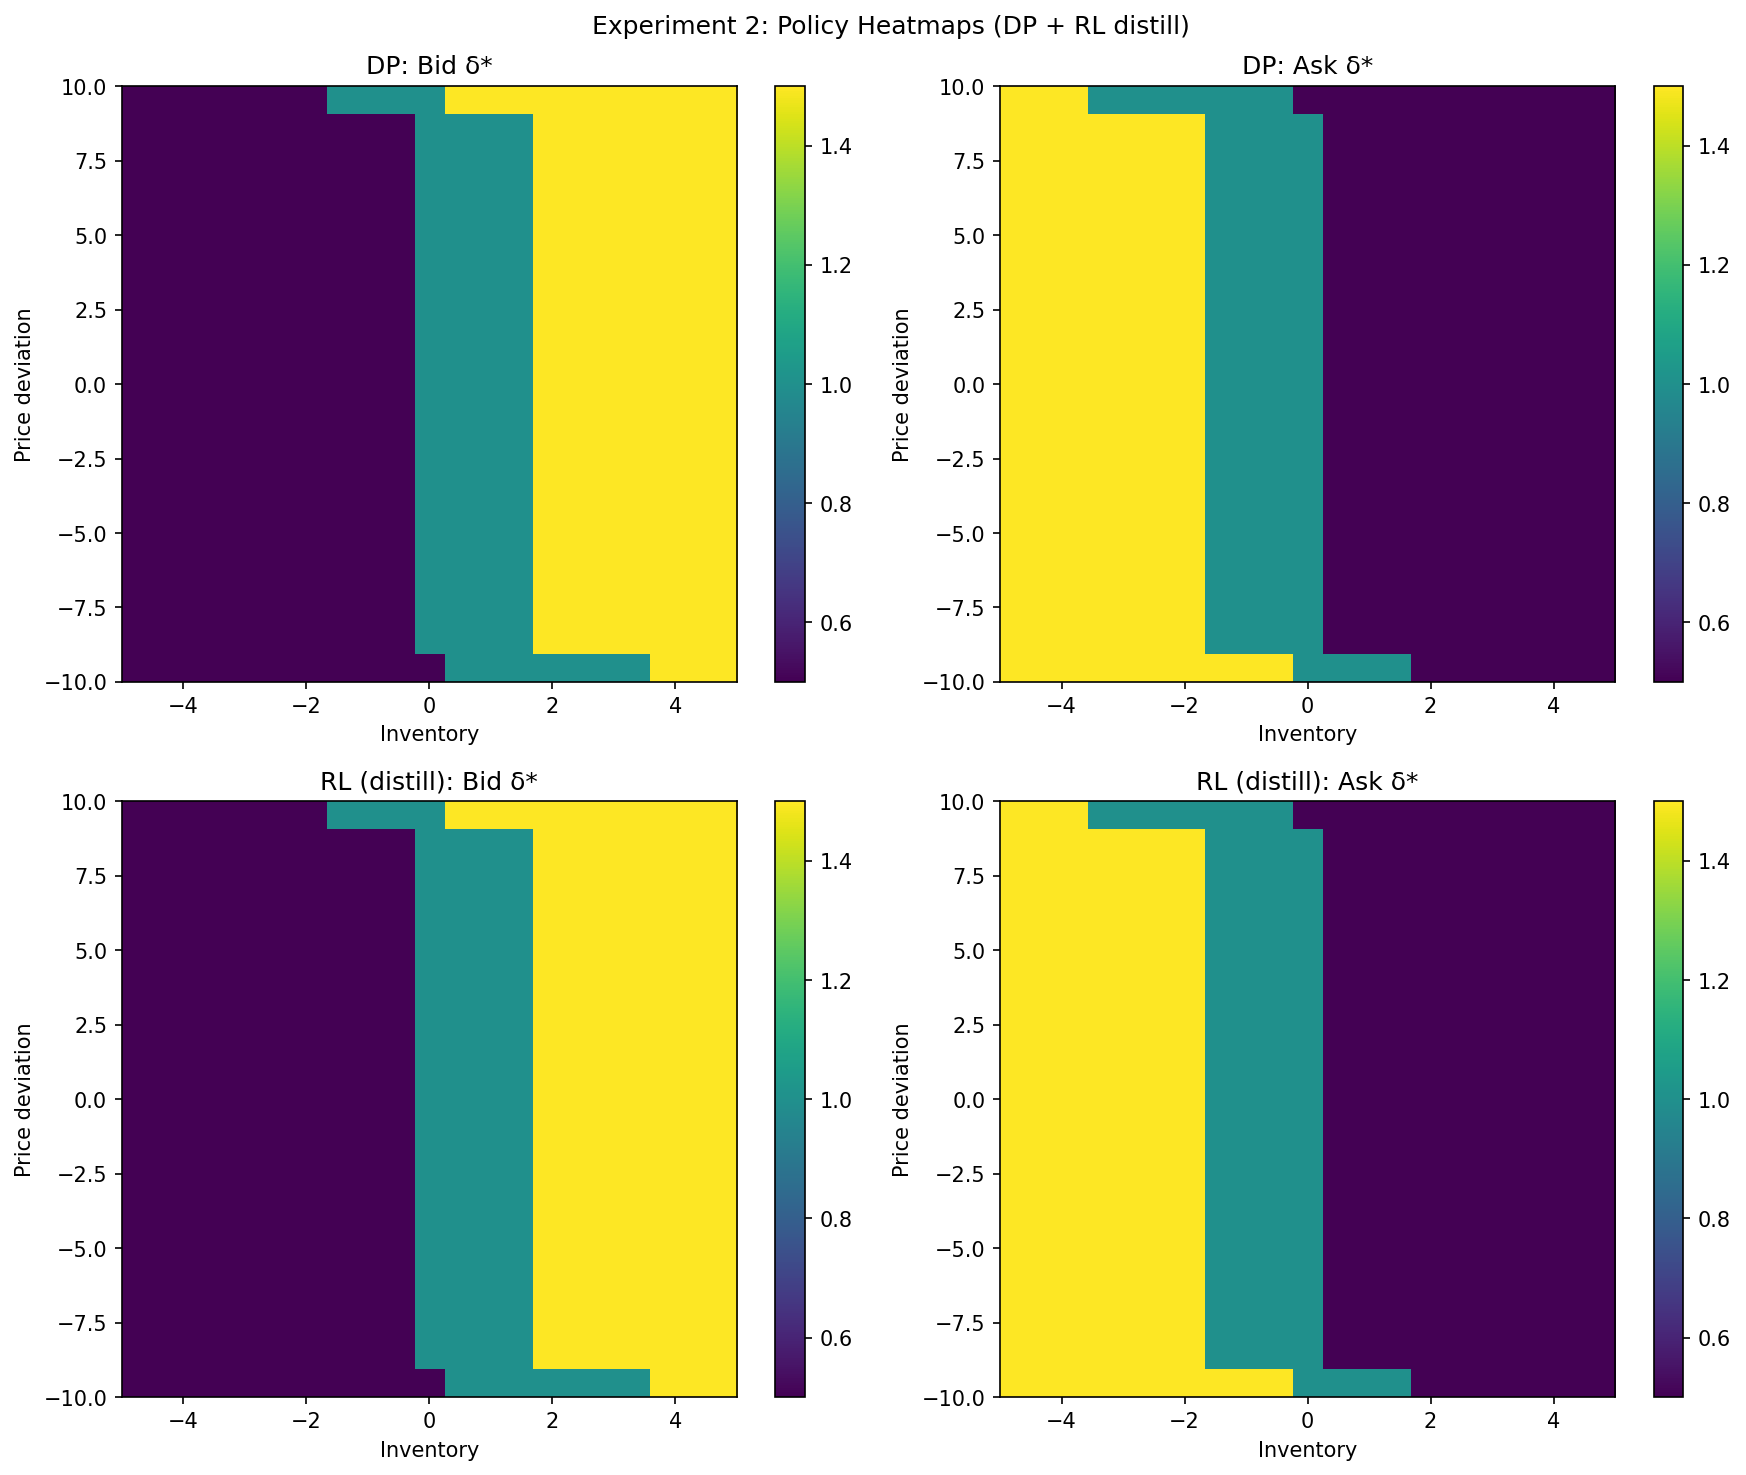
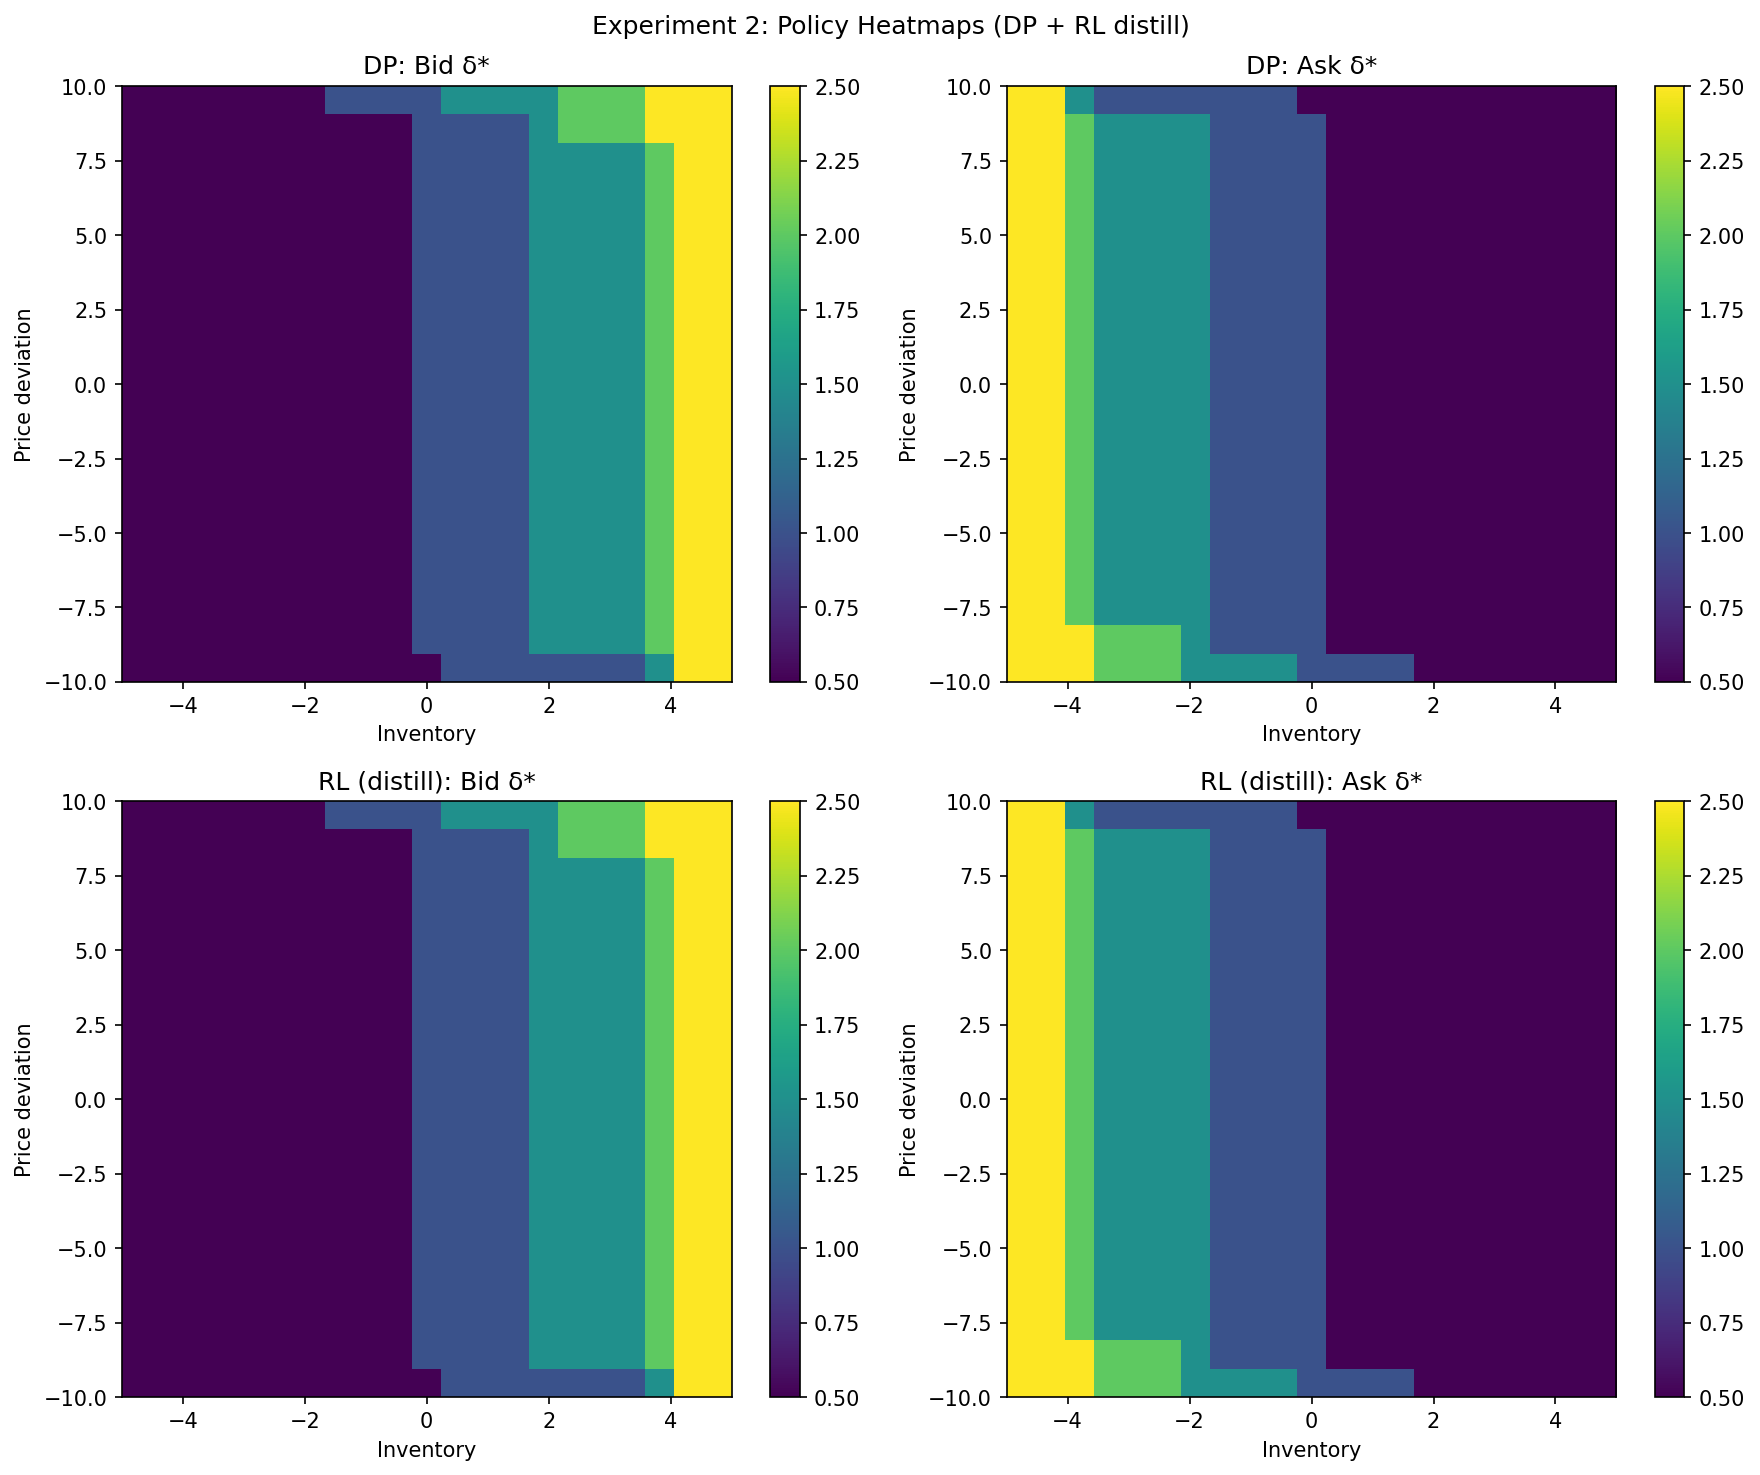
push

diff --git a/project/experiment2_realworld.py b/project/experiment2_realworld.py
@@ -286,6 +286,74 @@ def main():
     plt.savefig("results/exp2_realworld_comparison.png", dpi=150, bbox_inches="tight")
     print("→ saved results/exp2_realworld_comparison.png")
 
+    # ── Policy heatmaps (DP + RL continuous at mid vol) ──────────────────
+    if price_grid is not None and vol_grid is not None:
+        fig_hm, axes_hm = plt.subplots(2, 2, figsize=(12, 10))
+        inv_norm = np.linspace(-1, 1, 21)
+        price_norm = np.linspace(-1, 1, 21)
+
+        def build_heatmap_realworld(agent, env):
+            bid_map = np.zeros((len(price_norm), len(inv_norm)))
+            ask_map = np.zeros_like(bid_map)
+            vol_mid = float(vol_grid[mid_v])
+            for i, pn in enumerate(price_norm):
+                price_dev = pn * PRICE_HALF_RANGE
+                for j, ni in enumerate(inv_norm):
+                    inv = int(np.clip(np.round(ni * params.max_inventory + params.max_inventory), 0, params.n_inventory_states - 1))
+                    inv = params.index_to_inventory(inv)
+                    obs = env.obs_for_state(inv, price_dev=price_dev, vol=vol_mid, order_flow=0.0)
+                    mask = DQNAgent.boundary_mask(inv, params)
+                    a = agent.select_action(obs, valid_mask=mask)
+                    db, da = params.action_to_spreads(a)
+                    bid_map[i, j] = db
+                    ask_map[i, j] = da
+            return bid_map, ask_map
+
+        rl_bid_map, rl_ask_map = build_heatmap_realworld(agent, eval_env)
+        extent = [inventories[0], inventories[-1], -PRICE_HALF_RANGE, PRICE_HALF_RANGE]
+        vmin, vmax = min(SPREAD_OPTIONS), max(SPREAD_OPTIONS)
+
+        if dp_result is not None:
+            _V, policy_dp, _pg, _vg = dp_result
+            dp_bid_map = np.zeros((len(price_norm), len(inv_norm)))
+            dp_ask_map = np.zeros_like(dp_bid_map)
+            for i, pn in enumerate(price_norm):
+                price_dev = pn * PRICE_HALF_RANGE
+                sp = int(np.clip(np.argmin(np.abs(_pg - price_dev)), 0, len(_pg) - 1))
+                for j, ni in enumerate(inv_norm):
+                    si = int(np.clip(np.round(ni * params.max_inventory + params.max_inventory), 0, params.n_inventory_states - 1))
+                    db, da = params.action_to_spreads(policy_dp[si, sp, mid_v])
+                    dp_bid_map[i, j] = db
+                    dp_ask_map[i, j] = da
+            for ax, data, title in [
+                (axes_hm[0, 0], dp_bid_map, "DP: Bid δ*"),
+                (axes_hm[0, 1], rl_bid_map, "RL (continuous): Bid δ*"),
+                (axes_hm[1, 0], dp_ask_map, "DP: Ask δ*"),
+                (axes_hm[1, 1], rl_ask_map, "RL (continuous): Ask δ*"),
+            ]:
+                im = ax.imshow(data, aspect="auto", origin="lower", extent=extent, cmap="viridis", vmin=vmin, vmax=vmax)
+                ax.set_xlabel("Inventory")
+                ax.set_ylabel("Price deviation")
+                ax.set_title(title)
+                plt.colorbar(im, ax=ax)
+        else:
+            for ax, data, title in [
+                (axes_hm[0, 0], rl_bid_map, "RL (continuous): Bid δ*"),
+                (axes_hm[0, 1], rl_ask_map, "RL (continuous): Ask δ*"),
+            ]:
+                im = ax.imshow(data, aspect="auto", origin="lower", extent=extent, cmap="viridis", vmin=vmin, vmax=vmax)
+                ax.set_xlabel("Inventory")
+                ax.set_ylabel("Price deviation")
+                ax.set_title(title)
+                plt.colorbar(im, ax=ax)
+            axes_hm[1, 0].set_visible(False)
+            axes_hm[1, 1].set_visible(False)
+
+        fig_hm.suptitle("Experiment 2 Real-World: Policy Heatmaps at mid vol")
+        plt.tight_layout()
+        plt.savefig("results/exp2_realworld_policy_heatmap.png", dpi=150, bbox_inches="tight")
+        print("→ saved results/exp2_realworld_policy_heatmap.png")
+
     fig2, ax2 = plt.subplots(1, 1, figsize=(10, 5))
     if methods:
         bars2 = ax2.bar(methods, times_s, color=colors[: len(methods)], edgecolor="k")

diff --git a/project/experiment3.py b/project/experiment3.py
@@ -215,6 +215,68 @@ def main():
     plt.tight_layout()
     plt.savefig("results/exp3_comparison.png", dpi=150, bbox_inches="tight")
     print("→ saved results/exp3_comparison.png")
+
+    # ── Policy heatmaps at mid vol (DP, regular, discrete, distill) ─────
+    fig2, axes2 = plt.subplots(2, 4, figsize=(20, 10))
+    mid_v = N_VOL_BINS // 2
+    vol_mid = float(vol_grid[mid_v])
+    inv_norm = np.linspace(-1, 1, 21)
+    price_norm = np.linspace(-1, 1, 21)
+
+    def build_heatmap_3d(agent, env):
+        bid_map = np.zeros((len(price_norm), len(inv_norm)))
+        ask_map = np.zeros_like(bid_map)
+        for i, pn in enumerate(price_norm):
+            price_dev = pn * PRICE_HALF_RANGE
+            for j, ni in enumerate(inv_norm):
+                inv = int(np.clip(np.round(ni * params.max_inventory + params.max_inventory), 0, params.n_inventory_states - 1))
+                inv = params.index_to_inventory(inv)
+                obs = env.obs_for_state(inv, price_dev=price_dev, vol=vol_mid)
+                mask = DQNAgent.boundary_mask(inv, params)
+                a = agent.select_action(obs, valid_mask=mask)
+                db, da = params.action_to_spreads(a)
+                bid_map[i, j] = db
+                ask_map[i, j] = da
+        return bid_map, ask_map
+
+    dp_bid_map = np.zeros((len(price_norm), len(inv_norm)))
+    dp_ask_map = np.zeros_like(dp_bid_map)
+    for i, pn in enumerate(price_norm):
+        sp = int(np.clip(np.round((pn * PRICE_HALF_RANGE - price_grid[0]) / (price_grid[1] - price_grid[0])), 0, N_PRICE_BINS - 1))
+        for j, ni in enumerate(inv_norm):
+            si = int(np.clip(np.round(ni * params.max_inventory + params.max_inventory), 0, params.n_inventory_states - 1))
+            db, da = params.action_to_spreads(policy_dp[si, sp, mid_v])
+            dp_bid_map[i, j] = db
+            dp_ask_map[i, j] = da
+
+    reg_bid_map, reg_ask_map = build_heatmap_3d(agent_reg, eval_reg)
+    disc_bid_map, disc_ask_map = build_heatmap_3d(agent_disc, eval_disc)
+    dist_bid_map, dist_ask_map = build_heatmap_3d(agent_dist, eval_dist)
+
+    extent = [inventories[0], inventories[-1], -PRICE_HALF_RANGE, PRICE_HALF_RANGE]
+    vmin, vmax = min(SPREAD_OPTIONS), max(SPREAD_OPTIONS)
+
+    for ax, data, title in [
+        (axes2[0, 0], dp_bid_map, "DP: Bid δ*"),
+        (axes2[0, 1], reg_bid_map, "RL (regular): Bid δ*"),
+        (axes2[0, 2], disc_bid_map, "RL (discrete): Bid δ*"),
+        (axes2[0, 3], dist_bid_map, "RL (distill): Bid δ*"),
+        (axes2[1, 0], dp_ask_map, "DP: Ask δ*"),
+        (axes2[1, 1], reg_ask_map, "RL (regular): Ask δ*"),
+        (axes2[1, 2], disc_ask_map, "RL (discrete): Ask δ*"),
+        (axes2[1, 3], dist_ask_map, "RL (distill): Ask δ*"),
+    ]:
+        im = ax.imshow(data, aspect="auto", origin="lower", extent=extent, cmap="viridis", vmin=vmin, vmax=vmax)
+        ax.set_xlabel("Inventory")
+        ax.set_ylabel("Price deviation")
+        ax.set_title(title)
+        plt.colorbar(im, ax=ax)
+
+    fig2.suptitle(f"Experiment 3: Policy Heatmaps at mid vol (σ={vol_mid:.2f})")
+    plt.tight_layout()
+    plt.savefig("results/exp3_policy_heatmap.png", dpi=150, bbox_inches="tight")
+    print("→ saved results/exp3_policy_heatmap.png")
+
     plt.show()
 
 

diff --git a/project/experiment2.py b/project/experiment2.py
@@ -243,8 +243,8 @@ def main():
     plt.savefig("results/exp2_comparison.png", dpi=150, bbox_inches="tight")
     print("→ saved results/exp2_comparison.png")
 
-    # ── Policy heatmaps (4-way: DP, regular, discrete, distill) ─────────
-    fig2, axes2 = plt.subplots(2, 2, figsize=(12, 10))
+    # ── Policy heatmaps (DP, regular, discrete, distill) ─────────────────
+    fig2, axes2 = plt.subplots(2, 4, figsize=(20, 10))
     inv_norm = np.linspace(-1, 1, 21)
     price_norm = np.linspace(-1, 1, 21)
 
@@ -283,9 +283,13 @@ def main():
 
     for ax, data, title in [
         (axes2[0, 0], dp_bid_map, "DP: Bid δ*"),
-        (axes2[0, 1], dp_ask_map, "DP: Ask δ*"),
-        (axes2[1, 0], dist_bid_map, "RL (distill): Bid δ*"),
-        (axes2[1, 1], dist_ask_map, "RL (distill): Ask δ*"),
+        (axes2[0, 1], reg_bid_map, "RL (regular): Bid δ*"),
+        (axes2[0, 2], disc_bid_map, "RL (discrete): Bid δ*"),
+        (axes2[0, 3], dist_bid_map, "RL (distill): Bid δ*"),
+        (axes2[1, 0], dp_ask_map, "DP: Ask δ*"),
+        (axes2[1, 1], reg_ask_map, "RL (regular): Ask δ*"),
+        (axes2[1, 2], disc_ask_map, "RL (discrete): Ask δ*"),
+        (axes2[1, 3], dist_ask_map, "RL (distill): Ask δ*"),
     ]:
         im = ax.imshow(data, aspect="auto", origin="lower", extent=extent, cmap="viridis", vmin=vmin, vmax=vmax)
         ax.set_xlabel("Inventory")
@@ -293,7 +297,7 @@ def main():
         ax.set_title(title)
         plt.colorbar(im, ax=ax)
 
-    fig2.suptitle("Experiment 2: Policy Heatmaps (DP + RL distill)")
+    fig2.suptitle("Experiment 2: Policy Heatmaps (DP, regular, discrete, distill)")
     plt.tight_layout()
     plt.savefig("results/exp2_policy_heatmap.png", dpi=150, bbox_inches="tight")
     print("→ saved results/exp2_policy_heatmap.png")
